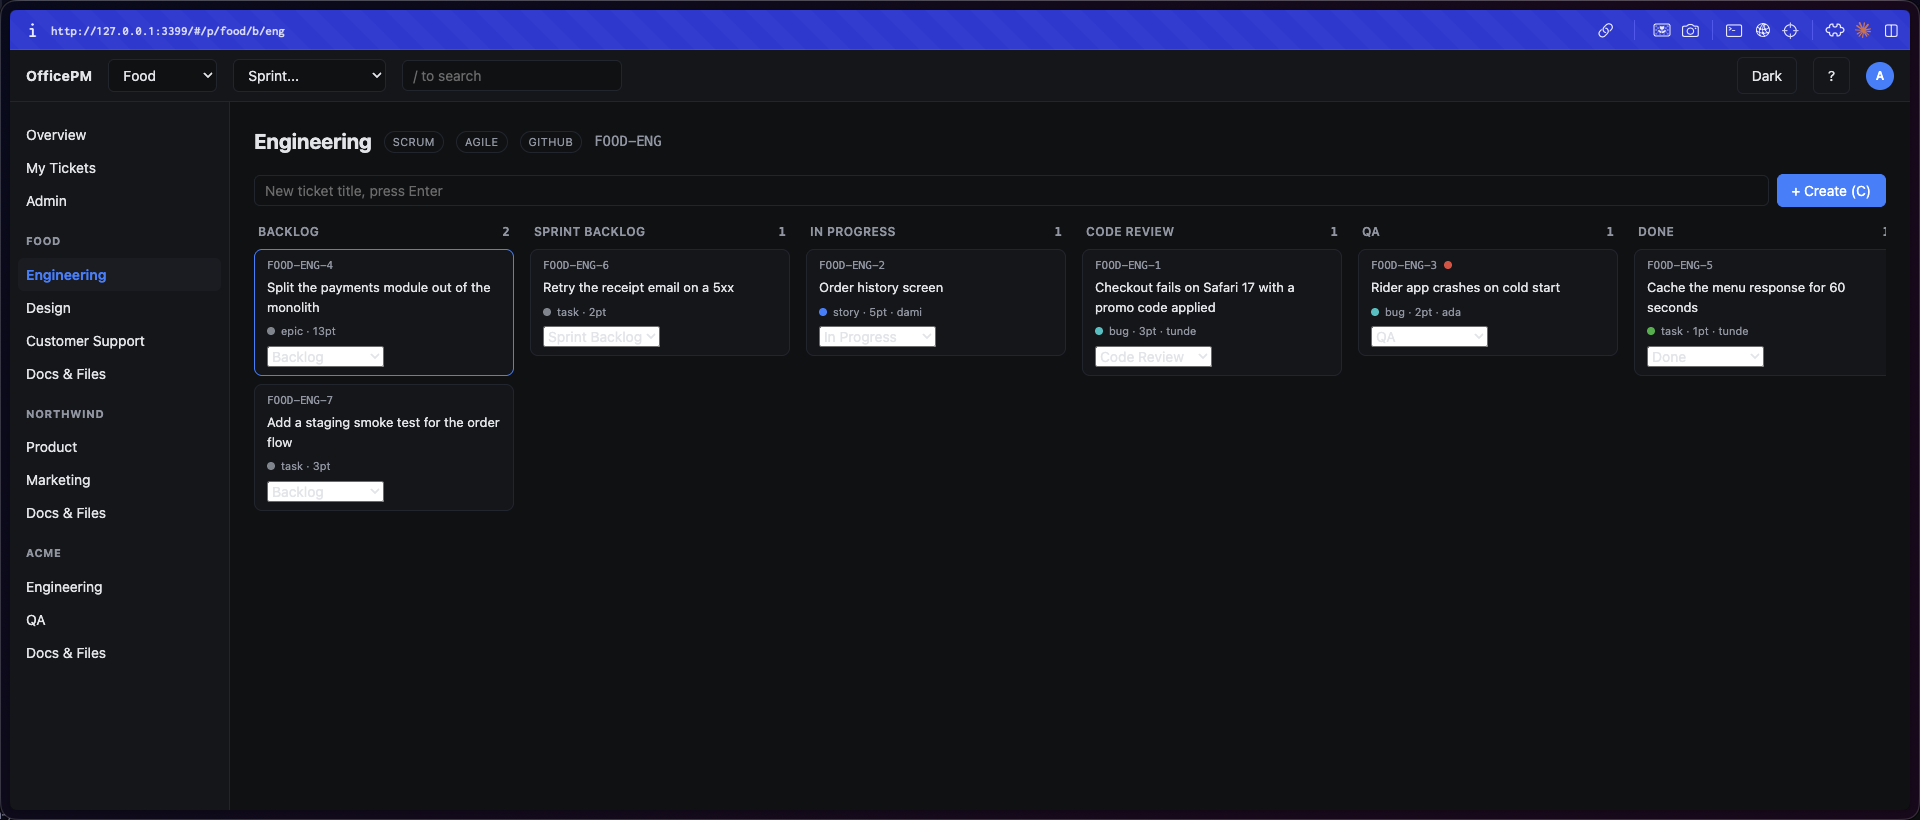
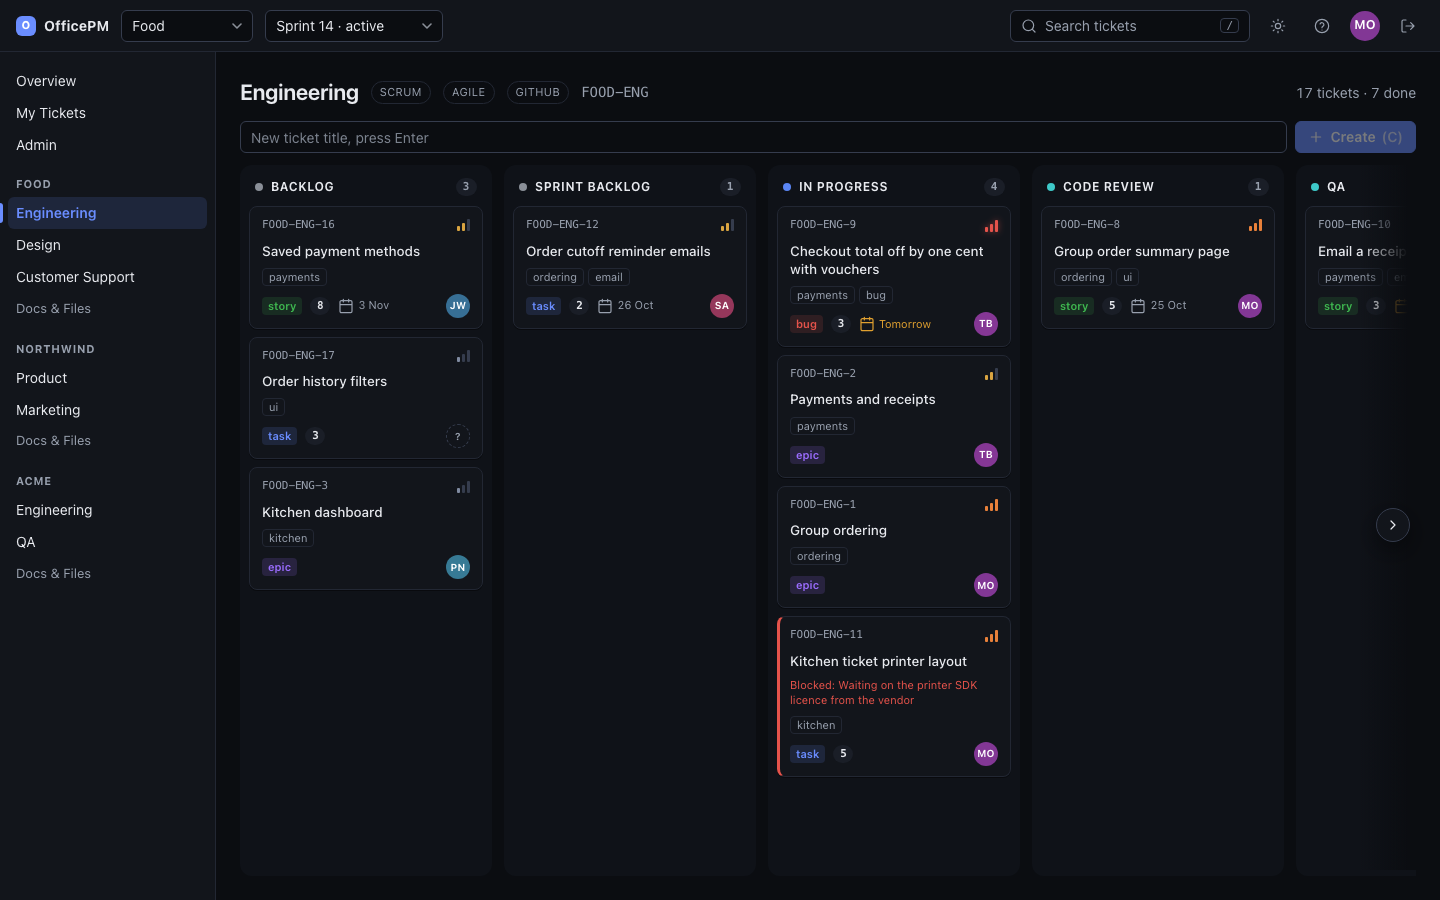
Refresh the screenshots and README for the new UI
Screenshots are taken from a seeded instance on a temporary database. Adds
light theme, phone width and scrolled-to-Done views, plus before images of the
old board and overview under docs/before. Test count is now 104.

diff --git a/README.md b/README.md
@@ -35,8 +35,8 @@ The interesting part of this project is what is not in it.
 | Bundler, transpiler, CSS framework | none |
 | Database | one SQLite file, `better-sqlite3`, synchronous |
 | Cloud services | none, it runs on a machine in the office |
-| Total application code | about 2,900 lines across four files |
-| Tests | 92, on `node --test`, no test framework dependency |
+| Total application code | about 3,700 lines across `server.js`, `schema.js`, `app.js` and `styles.css` |
+| Tests | 104, on `node --test`, no test framework dependency |
 
 No CDN, no analytics, no third-party network calls. The only code the browser
 loads is this application's own, plus the vendored 3 KB Preact and htm runtime,
@@ -45,6 +45,14 @@ an hour. That is the point: a tool a small team relies on should be one a single
 person can still hold in their head two years later.
 
 ## What it does
+
+**Boards you can drag.** Move a ticket by dragging it to another column, with
+the card jumping at once and snapping back with the reason if the board refuses
+the move. From the keyboard, focus a card and press `Alt` plus an arrow key. On
+a phone a status menu on the card does the same. Cards show assignee, priority,
+labels, points and due date.
+
+![Overview dashboard](docs/overview.png)
 
 **Projects and boards.** Multiple projects, each with its own boards, each board
 with its own workflow. Boards are declared in `projects.json`, not in the
@@ -116,7 +124,7 @@ to the code directory.
 npm test
 ```
 
-92 tests on Node's built-in test runner. They boot a real server in a child
+104 tests on Node's built-in test runner. They boot a real server in a child
 process against a throwaway data directory and talk to it over HTTP, because the
 parts most worth testing here (session cookies, multipart uploads,
 `Content-Disposition`, webhook tokens) only exist at that boundary.
@@ -133,11 +141,13 @@ returns `'.'` for a name with a trailing dot.
 
 | Path | What |
 |---|---|
-| `server.js` | All backend logic: auth, API, SQLite schema, GitHub webhooks, SSE |
+| `server.js` | All backend logic: auth, API, GitHub webhooks, SSE |
+| `schema.js` | The SQLite schema and its in-place migrations, shared with the seed script |
+| `scripts/seed-demo.js` | `npm run seed`, fills an empty database with a demo workspace |
 | `index.html`, `app.js`, `styles.css` | The entire frontend |
 | `vendor/htm-preact.module.js` | Vendored Preact + htm runtime |
 | `projects.json` | Project and board definitions, the source of truth, not the database |
-| `test/` | 92 tests |
+| `test/` | 104 tests |
 | `PRD.md` | The specification this was built against |
 | `ROLLOUT.md` | Hosting, Tailscale, GitHub Actions, backups, and a user guide |
 
